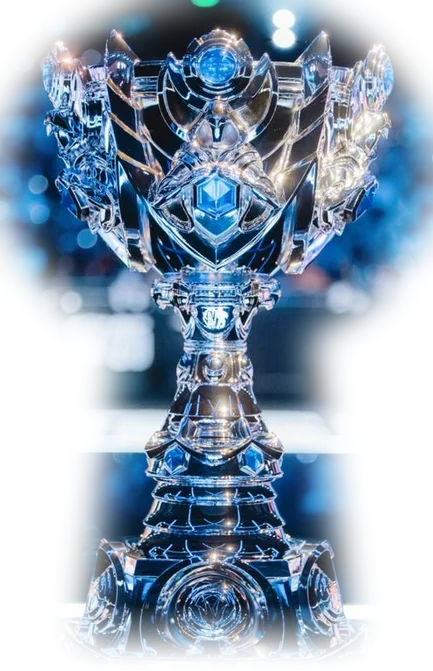
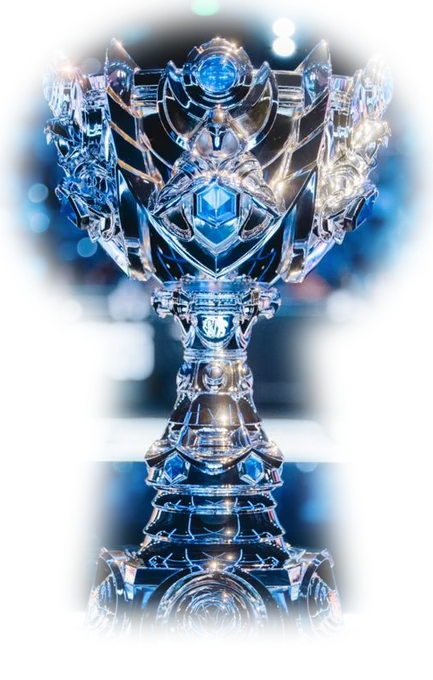
Intro cup: tighter mask, dark halo so edges blend on any splash art

diff --git a/src/components/splash.tsx b/src/components/splash.tsx
@@ -38,10 +38,13 @@ export function Splash() {
       <img src={`https://ddragon.leagueoflegends.com/cdn/img/champion/splash/${champ}_0.jpg`} alt="" className="splash-art absolute -inset-[6%] size-[112%] max-w-none object-cover" onError={(e) => (e.currentTarget.style.display = "none")} />
       <div className="absolute inset-0 bg-gradient-to-b from-[#0b0a10]/70 via-[#1a1438]/40 to-[#0b0a10]/95" />
       <div className="absolute inset-x-0 bottom-[20%] flex flex-col items-center gap-4 text-center">
+        <div className="relative">
+        <div className="absolute -inset-x-16 -inset-y-10 -z-10 rounded-full bg-[radial-gradient(closest-side,rgba(6,8,18,.92),rgba(6,8,18,.7)_55%,transparent)]" />
         {cupOk ? (
           // eslint-disable-next-line @next/next/no-img-element
           <img src="/cup.webp" alt="" className="splash-cup h-60 w-auto drop-shadow-[0_0_28px_rgba(110,170,255,.4)]" onError={() => setCupOk(false)} />
         ) : <MetalCup />}
+        </div>
         <div className="font-[family-name:var(--nf-bold)] text-[3.6rem] uppercase leading-none tracking-[0.02em] text-white" aria-label="Worlds 2026">
           {"Worlds".split("").map((c, i) => <span key={i} className="splash-letter" style={{ animationDelay: `${0.55 + i * 0.05}s` }}>{c}</span>)}
           <span className="splash-letter">&nbsp;</span>
